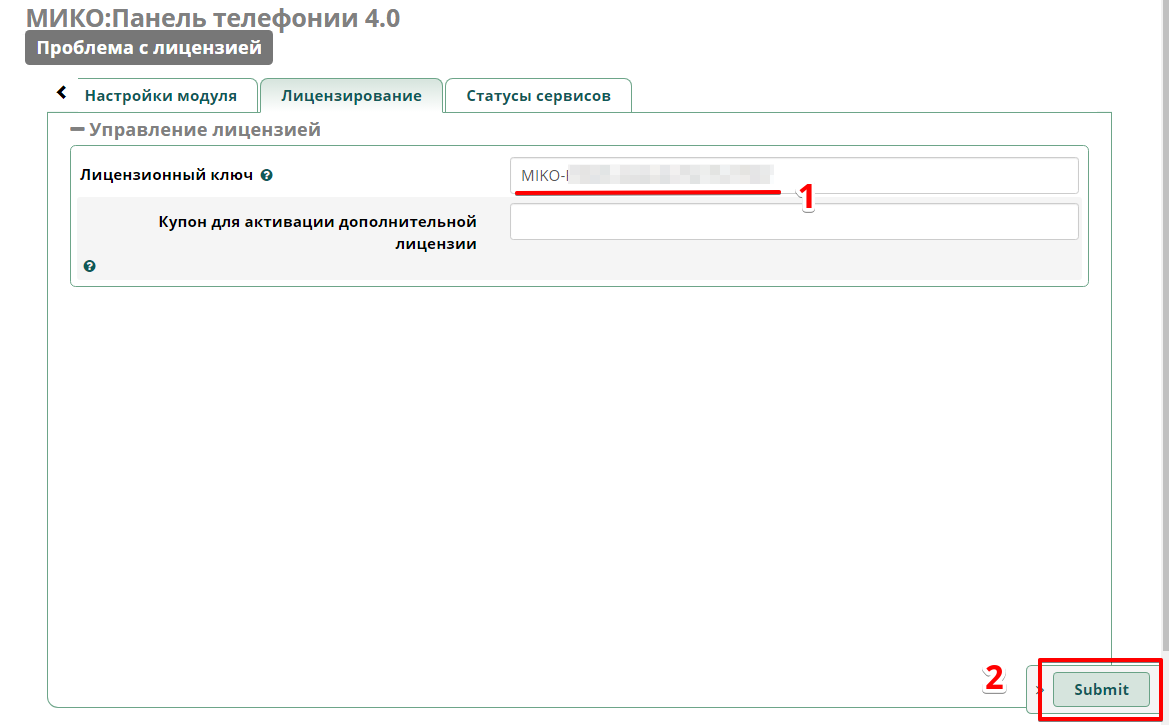
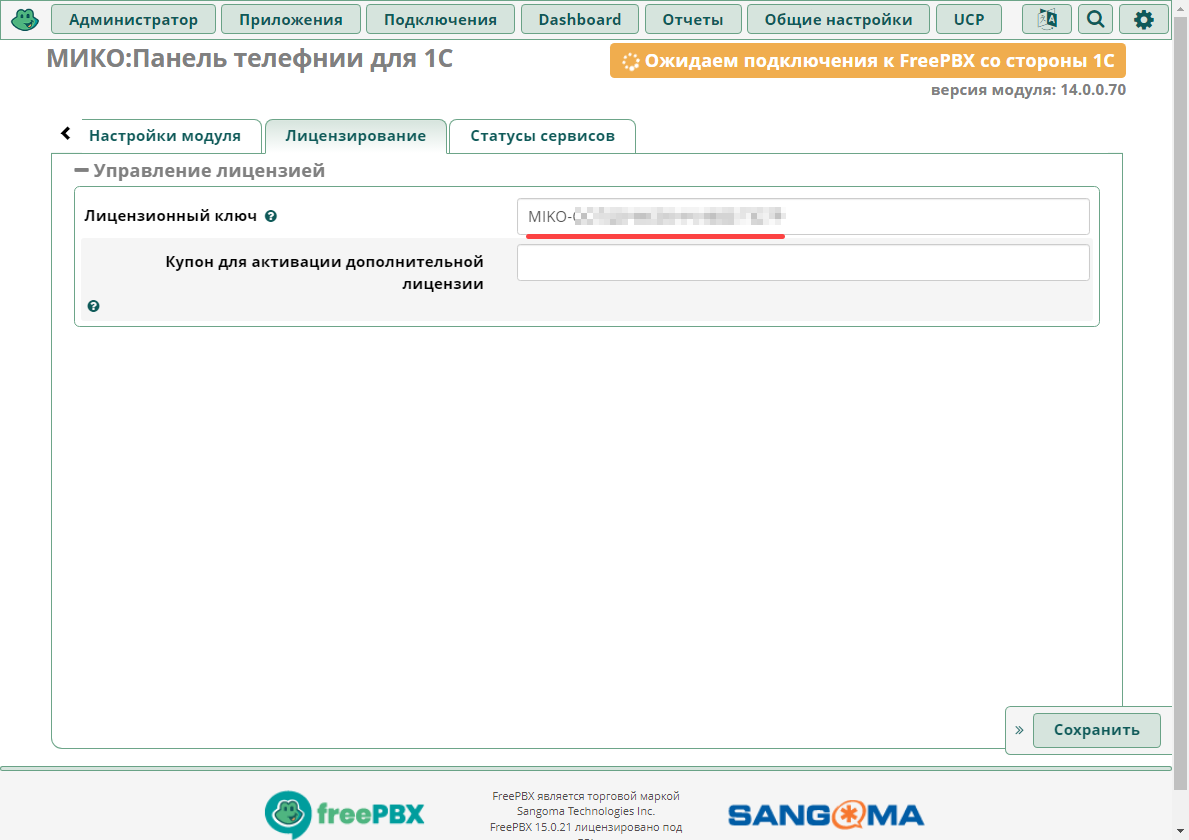
переделывал скриншоты в "Интеграции с freepbx"

diff --git a/src/get-started/freepbx.md b/src/get-started/freepbx.md
@@ -72,7 +72,14 @@ https://releases.mikopbx.com/releases/v1/freepbx/getModuleFile/pt1coutpanel/late
 !!!
 
 Если у вас уже есть лицензионный ключ, вставьте его в поле **Лицензионный ключ**.
-![](../assets/freepbx/freepbx_mod_12.png)
+
+<img class="miko-shadow img-zoomable"  
+    src="/assets/freepbx/freepbx_mod_12.png"
+    data-original="/assets/freepbx/freepbx_mod_12.png"
+    srcset="/assets/freepbx/freepbx_mod_12_prev.png 1x, /assets/freepbx/freepbx_mod_12.png 2x" 
+    alt="МИКО: FreePBX лицензионный ключ клиента в модуле панели телефонии"
+/> 
+
 
 13. Перейдите на вкладку **Настройки модуля**. В разделе **Общие настройки** установите переключатель в положение **Автоматическая настройка модуля**.  
 В разделе **Прочие настройки** переключатель **Включить режим отладки модуля** установите в положение **Включить**. Выполните **Submit**.
